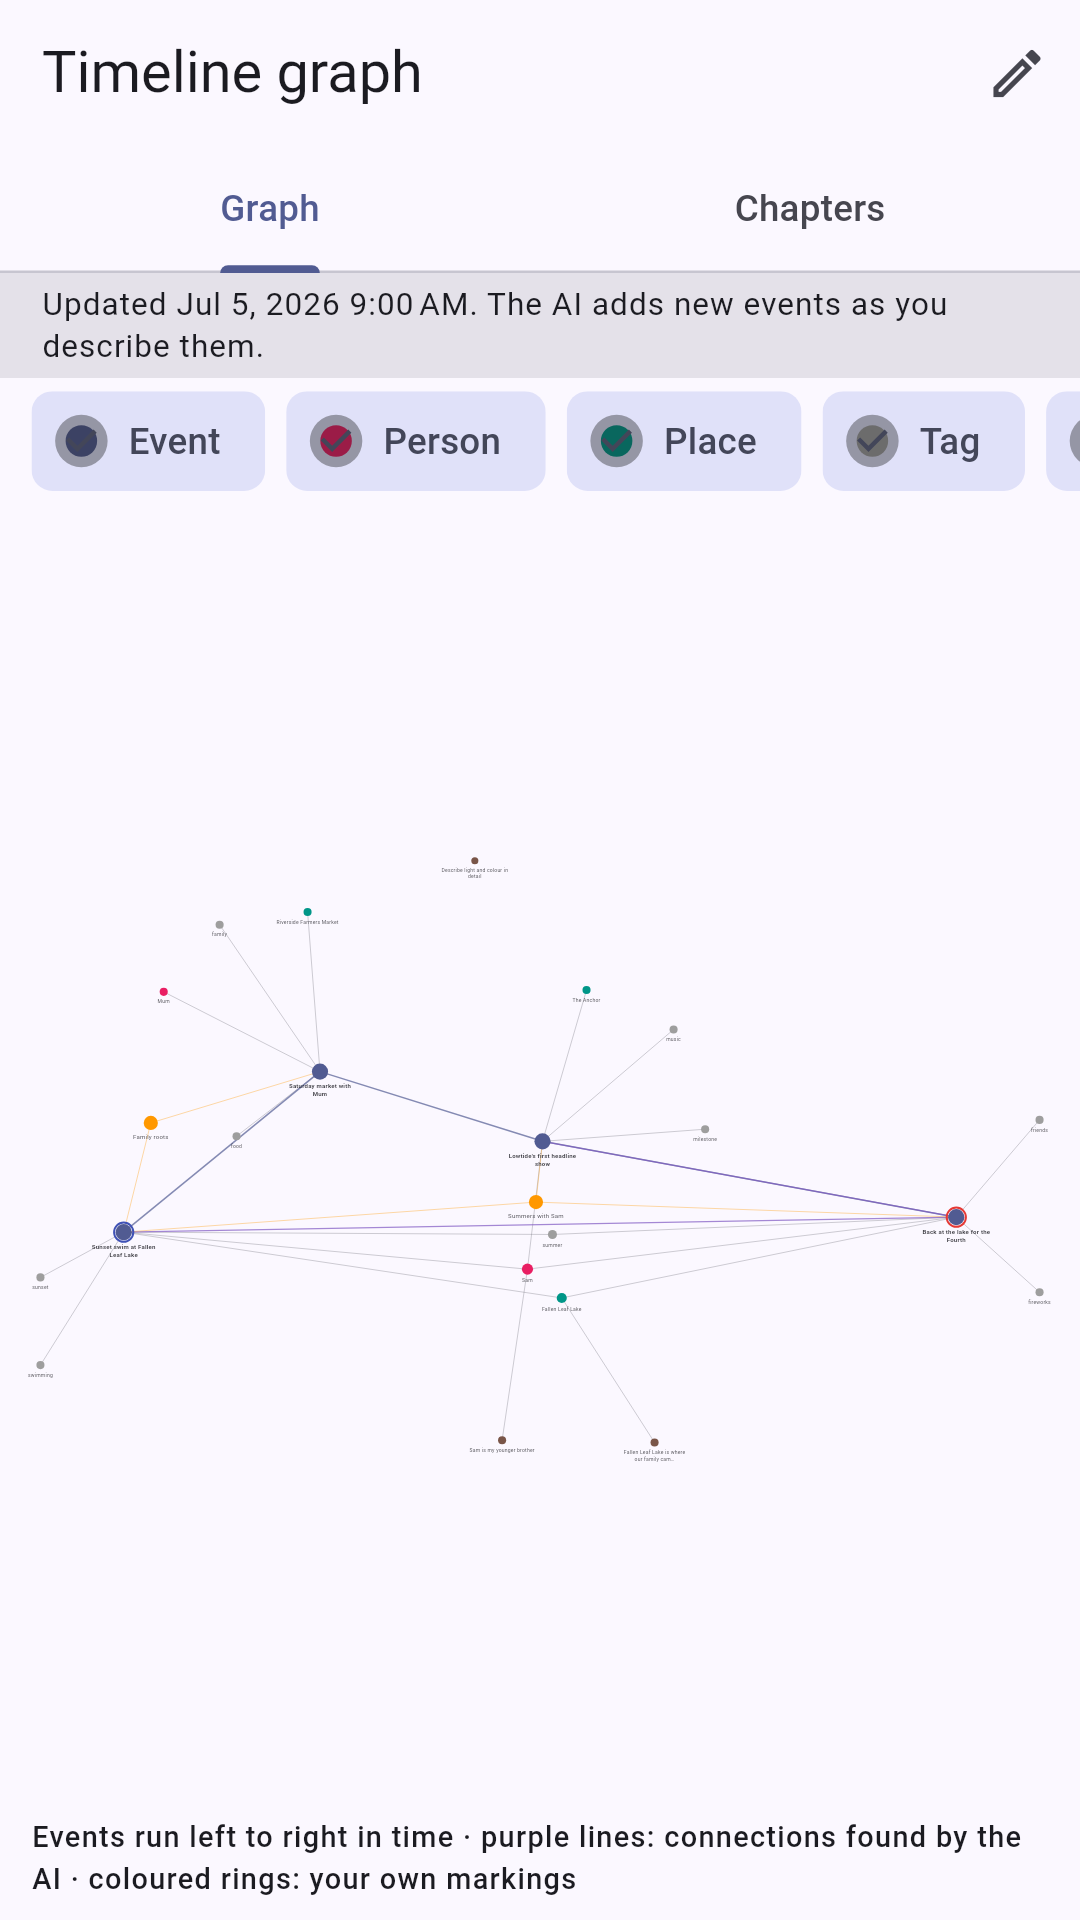
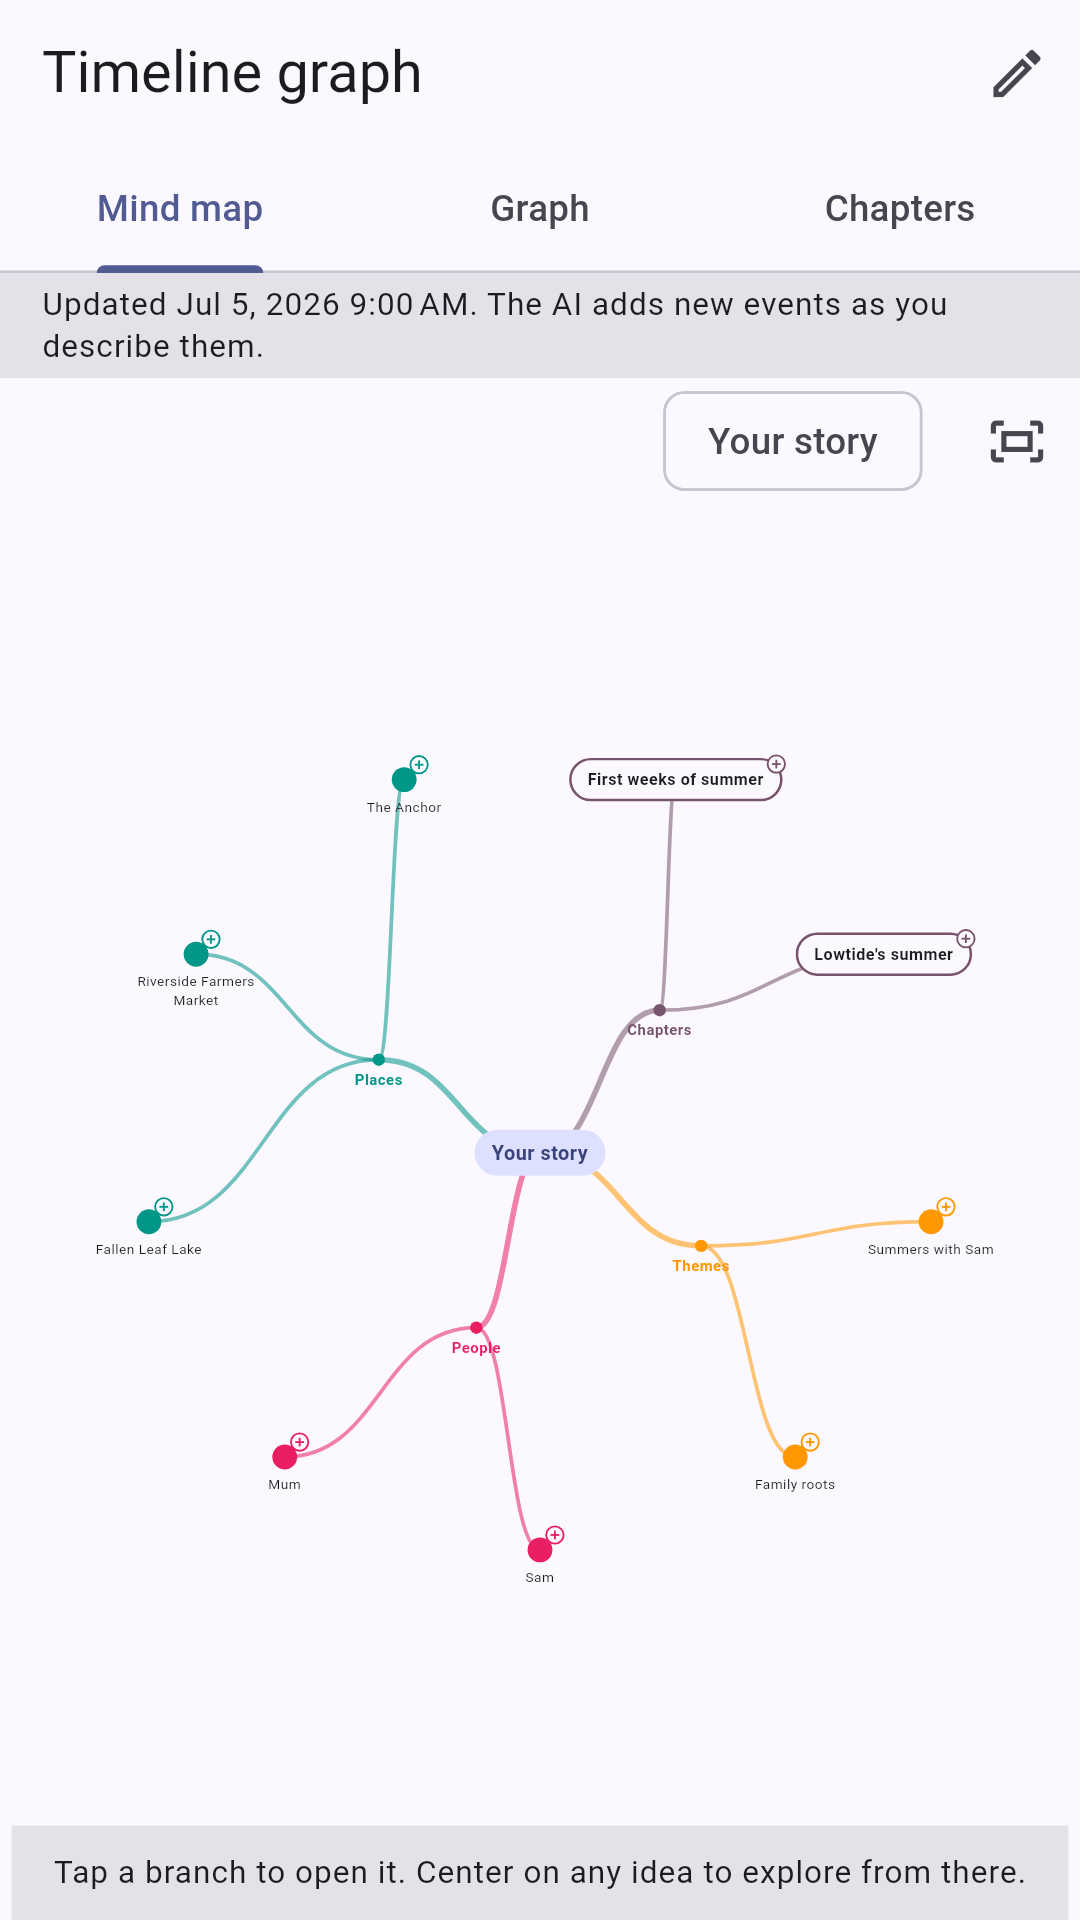
Design Overhaul Cleanup run 1, part 2: old UX/UI items
- Tutorial: drop stale lines about notes covering feelings and the AI
  writing a narrative; it writes a factual account.
- Data guide: the people example skips the "none" marker.
- Mind map: the open/close badge sits on the pill's corner instead of
  over chapter titles.
- Store screenshots regenerated (graph shot now shows the mind map).
- README intro: notes no longer said to cover how it feels.

Claude-Session: https://claude.ai/code/session_01PzhG2F3CB2QXumJMKgWp5z

diff --git a/lib/screens/mind_map_view.dart b/lib/screens/mind_map_view.dart
@@ -396,8 +396,7 @@ class MindMapPainter extends CustomPainter {
     tp.paint(canvas, at - Offset(tp.width / 2, 0));
   }
 
-  void _badge(Canvas canvas, Offset c, bool open, Color color) {
-    final at = c + const Offset(12, -12);
+  void _badge(Canvas canvas, Offset at, bool open, Color color) {
     canvas.drawCircle(at, 7, Paint()..color = scheme.surface);
     canvas.drawCircle(
       at,
@@ -444,6 +443,9 @@ class MindMapPainter extends CustomPainter {
       final b = p.branch;
       final c = _at(p);
       final color = _limbColor(p);
+      // Where the open/close badge goes: beside a dot, or on the corner of a
+      // chapter's bubble so it never covers the title.
+      var badgeAt = c + const Offset(12, -12);
       switch (b.kind) {
         case BranchKind.story || BranchKind.chapter:
           final tp = TextPainter(
@@ -487,6 +489,7 @@ class MindMapPainter extends CustomPainter {
             );
           }
           tp.paint(canvas, c - Offset(tp.width / 2, tp.height / 2));
+          badgeAt = box.outerRect.topRight + const Offset(-4, 4);
         case BranchKind.group:
           canvas.drawCircle(c, 5, Paint()..color = color);
           _label(
@@ -534,7 +537,7 @@ class MindMapPainter extends CustomPainter {
       if (p.depth > 0 &&
           b.canOpen &&
           (b.kind == BranchKind.node || b.kind == BranchKind.chapter)) {
-        _badge(canvas, c, b.isOpen, color);
+        _badge(canvas, badgeAt, b.isOpen, color);
       }
       if (b.key == selected) {
         canvas.drawCircle(

diff --git a/lib/screens/tutorial_screen.dart b/lib/screens/tutorial_screen.dart
@@ -32,14 +32,13 @@ const _steps = [
     Icons.add_a_photo_outlined,
     'Record an event',
     'Tap New event, add up to 10 photos from your camera or gallery, and '
-        'jot down what\'s happening: who\'s there, what led up to it, how it '
-        'feels.',
+        'jot down what\'s happening: who\'s there and what led up to it.',
   ),
   _Step(
     Icons.auto_awesome_outlined,
     'The AI writes the account',
-    'The AI studies every photo and your notes and writes a rich, detailed '
-        'account in your voice, then suggests things worth remembering.',
+    'The AI studies every photo and your notes and writes a detailed, '
+        'factual account, then suggests things worth remembering.',
   ),
   _Step(
     Icons.psychology_outlined,

diff --git a/lib/screens/data_screen.dart b/lib/screens/data_screen.dart
@@ -686,8 +686,9 @@ class _DataGuideScreenState extends State<DataGuideScreen> {
   static const _tryCode =
       '# Events per year, as a bar chart\n'
       'events.groupby("year").size().plot(kind="bar")\n\n'
-      '# The people you record most\n'
-      'events["people"].str.split("|").explode().value_counts().head(10)';
+      '# The people you record most ("none" means no one was named)\n'
+      'named = events.loc[events["people"] != "none", "people"]\n'
+      'named.str.split("|").explode().value_counts().head(10)';
 
   @override
   Widget build(BuildContext context) {

diff --git a/README.md b/README.md
@@ -4,8 +4,8 @@ Record the events of your life with photos and quick notes. EventLens keeps
 the photos in a private library on the phone, and Claude (Anthropic's AI)
 writes a richly detailed account of each event on your behalf. Claude draws on:
 
-- **Working memory**: what you jot down in the moment (who's there, what's
-  happening, how it feels), plus the time and place.
+- **Working memory**: what you jot down in the moment (who's there and
+  what's happening), plus the time and place.
 - **Contextual memory**: durable facts you've saved (people, places, ongoing
   situations, preferences) and summaries of your recent events, so each new
   account connects to the ones before it.
